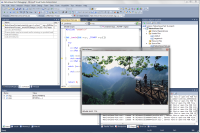
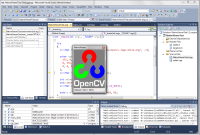
[+] User input in options page is validated [+] Added "Outdated" integration status indicating package installation path has changed [=] VSIX preview image changed

diff --git a/NativeViewer/NativeViewerPackage/src/OptionsPageGeneral.cs b/NativeViewer/NativeViewerPackage/src/OptionsPageGeneral.cs
@@ -17,29 +17,114 @@ namespace NativeViewerPackage
   [CLSCompliant(false), ComVisible(true)]
   public class OptionsPageGeneral : DialogPage
   {
+    private InterpolationMode _interp_mode_shrink;
+    private InterpolationMode _interp_mode_stretch;
+    private Size _auto_size_max;
+    private Size _auto_size_min;
+
     [DefaultValue(InterpolationMode.NearestNeighbor)]
     [Category("Behavior")]
     [DisplayName("Image stretch interpolation")]
     [Description("Interpolation mode used for stretching thumbnail image")]
-    public virtual InterpolationMode InterpModeStretch { get; set; }
+    public InterpolationMode InterpModeStretch 
+    { 
+      get 
+      {
+        return _interp_mode_stretch;
+      }
+      set 
+      {
+        if (value == InterpolationMode.Invalid)
+        {
+          value = InterpolationMode.Default;
+        }
+        _interp_mode_stretch = value;
+      } 
+    }
 
     [DefaultValue(InterpolationMode.HighQualityBilinear)]
     [Category("Behavior")]
     [DisplayName("Image shrink interpolation")]
     [Description("Interpolation mode used for shrinking thumbnail image")]
-    public virtual InterpolationMode InterpModeShrink { get; set; }
+    public InterpolationMode InterpModeShrink
+    {
+      get
+      {
+        return _interp_mode_shrink;
+      }
+      set
+      {
+        if (value == InterpolationMode.Invalid)
+        {
+          value = InterpolationMode.Default;
+        }
+        _interp_mode_shrink = value;
+      }
+    }
 
     [DefaultValue(typeof(Size), "640, 480")]
     [Category("Layout")]
-    [DisplayName("Image maximum auto size")]
-    [Description("Maximum size of the thumbnail image at the moment it is shown")]
-    public virtual Size AutoSizeMax { get; set; }
+    [DisplayName("Image maximum initial size")]
+    [Description("Maximum size of the thumbnail image at the moment it is shown. Set to [0; 0] to disable constraint.")]
+    public Size AutoSizeMax
+    {
+      get
+      {
+        return _auto_size_max;
+      }
+      set
+      {
+        if (value.Width <= 0 && value.Height <= 0)
+        {
+          value.Width = 0;
+          value.Height = 0;
+        }
+        else
+        {
+          value.Width = Math.Max(1, value.Width);
+          value.Height = Math.Max(1, value.Height);
+
+          if (AutoSizeMin.Width > 0 && AutoSizeMin.Height > 0)
+          {
+            value.Width = Math.Max(value.Width, AutoSizeMin.Width);
+            value.Height = Math.Max(value.Height, AutoSizeMin.Height);
+          }
+        }
+        _auto_size_max = value;
+      }
+    }
 
     [DefaultValue(typeof(Size), "160, 120")]
     [Category("Layout")]
-    [DisplayName("Image minimum auto size")]
-    [Description("Minimum size of the thumbnail image at the moment it is shown")]
-    public virtual Size AutoSizeMin { get; set; }
+    [DisplayName("Image minimum initial size")]
+    [Description("Minimum size of the thumbnail image at the moment it is shown. Set to [0; 0] to disable constraint.")]
+    public Size AutoSizeMin
+    {
+      get
+      {
+        return _auto_size_min;
+      }
+      set
+      {
+        if (value.Width <= 0 && value.Height <= 0)
+        {
+          value.Width = 0;
+          value.Height = 0;
+        }
+        else
+        {
+          value.Width = Math.Max(1, value.Width);
+          value.Height = Math.Max(1, value.Height);
+
+          if (AutoSizeMax.Width > 0 && AutoSizeMax.Height > 0)
+          {
+            value.Width = Math.Min(value.Width, AutoSizeMax.Width);
+            value.Height = Math.Min(value.Height, AutoSizeMax.Height);
+          }
+        }
+        _auto_size_min = value;
+      }
+    }
 
     public override void SaveSettingsToStorage()
     {

diff --git a/NativeViewer/NativeViewerPackage/src/OptionsPageIntegrationControl.cs b/NativeViewer/NativeViewerPackage/src/OptionsPageIntegrationControl.cs
@@ -17,7 +17,7 @@ namespace NativeViewerPackage
   {
     public enum TStatus
     {
-      Unknown, Integrated, NotIntegrated, Conflicted
+      Unknown, Integrated, NotIntegrated, Outdated, Conflicted
     }
 
     readonly string AutoExpFilePath;
@@ -37,7 +37,7 @@ namespace NativeViewerPackage
     readonly string AutoExpEntry;
 
     readonly Color[] StatusColors = new Color[] 
-      { Color.Black, Color.Green, Color.Olive, Color.Red };
+      { Color.Black, Color.Green, Color.Olive, Color.Olive, Color.Red };
 
     internal OptionsPageIntegration _page;
 
@@ -54,7 +54,7 @@ namespace NativeViewerPackage
         _status = value;
         
         ButtonAddEntry.Enabled = value == TStatus.NotIntegrated;
-        ButtonRemoveEntry.Enabled = value == TStatus.Integrated;
+        ButtonRemoveEntry.Enabled = value == TStatus.Integrated || value == TStatus.Outdated;
 
         LabelStatus.Text = value.ToString();
         LabelStatus.ForeColor = StatusColors[(int)value];
@@ -106,8 +106,10 @@ namespace NativeViewerPackage
           if (buf.Count < buf_len) continue;
           if (buf.Count > buf_len) buf.RemoveAt(0);
 
+          string entry = buf[prefix_len];
+
           // Check whether the entry is matched against the mask
-          if (!AutoExpEntryMask.IsMatch(buf[prefix_len])) continue;
+          if (!AutoExpEntryMask.IsMatch(entry)) continue;
 
           bool buf_matches_context =
             Enumerable.SequenceEqual(buf.GetRange(0, prefix_len), AutoExpEntryPrefix) &&
@@ -115,7 +117,14 @@ namespace NativeViewerPackage
 
           if (buf_matches_context)
           {
-            Status = TStatus.Integrated;
+            if (entry == AutoExpEntry)
+            {
+              Status = TStatus.Integrated;
+            }
+            else
+            {
+              Status = TStatus.Outdated;
+            }
           }
           else
           {
@@ -195,11 +204,6 @@ namespace NativeViewerPackage
         }
       }
 
-      MessageBox.Show(
-        "Integration was successfully reverted. " +
-        "NativeViewer functionality is now disabled.",
-        "NativeViewer", MessageBoxButtons.OK, MessageBoxIcon.Information);
-
       Status = TStatus.NotIntegrated;      
     }
 
@@ -238,7 +242,15 @@ namespace NativeViewerPackage
             Enumerable.SequenceEqual(suffix_buf, AutoExpEntrySuffix);
         }
 
-        rechecked_status = buf_matches_context ? TStatus.Integrated : TStatus.Conflicted;
+        if (buf_matches_context)
+        {
+          rechecked_status = 
+            (lines[i] == AutoExpEntry) ? TStatus.Integrated : TStatus.Outdated;
+        }
+        else
+        {
+          rechecked_status = TStatus.Conflicted;
+        }
       }
 
       if (rechecked_status != Status)

diff --git a/NativeViewerTest/NativeViewerTest/NativeViewerTest.cpp b/NativeViewerTest/NativeViewerTest/NativeViewerTest.cpp
@@ -3,18 +3,11 @@
 
 #include "stdafx.h"
 
-#undef rgb
-
 int _tmain(int argc, _TCHAR* argv[])
 {
   try
   {
-    cv::Mat empty;
-    cv::Mat img = cv::imread("../../data/mountains.jpg", -1);
-
-    int ndims = CV_MAX_DIM;
-    std::vector<int> sizes(ndims, 1);
-    cv::Mat many_dims(ndims, &sizes[0], CV_8UC3);
+    cv::Mat img = cv::imread("../../data/opencv-logo-white.png", -1);
 
     uchar rgb_data[] = { 
       255, 0, 0, 
@@ -23,6 +16,10 @@ int _tmain(int argc, _TCHAR* argv[])
     };
     cv::Mat rgb(1, 3, CV_8UC3, rgb_data);
     
+    int ndims = CV_MAX_DIM;
+    std::vector<int> sizes(ndims, 1);
+    cv::Mat many_dims(ndims, &sizes[0], CV_8UC3);
+
     auto p = rgb.at<cv::Scalar_<uchar>>(0, 0);
   }
   catch (cv::Exception& e)

diff --git a/NativeViewer/NativeViewerGUI/FormMain.cs b/NativeViewer/NativeViewerGUI/FormMain.cs
@@ -59,6 +59,11 @@ namespace NativeViewerGUI
       Size min_size = _settings.AutoSizeMin;
       Size max_size = _settings.AutoSizeMax;
 
+      if (max_size.Width == 0 || max_size.Height == 0)
+      {
+        max_size = new Size(int.MaxValue, int.MaxValue);
+      }
+
       Func<Size, Size> ConstrainSize = (Size s) => new Size(
         Math.Max(Math.Min(s.Width, max_size.Width), min_size.Width),
         Math.Max(Math.Min(s.Height, max_size.Height), min_size.Height));

diff --git a/NativeViewer/NativeViewerPackage/src/OptionsPageIntegrationControl.Designer.cs b/NativeViewer/NativeViewerPackage/src/OptionsPageIntegrationControl.Designer.cs
@@ -100,7 +100,7 @@
             | System.Windows.Forms.AnchorStyles.Left) 
             | System.Windows.Forms.AnchorStyles.Right)));
       this.textBoxHelp.BorderStyle = System.Windows.Forms.BorderStyle.None;
-      this.textBoxHelp.Location = new System.Drawing.Point(7, 82);
+      this.textBoxHelp.Location = new System.Drawing.Point(7, 74);
       this.textBoxHelp.Multiline = true;
       this.textBoxHelp.Name = "textBoxHelp";
       this.textBoxHelp.ReadOnly = true;
